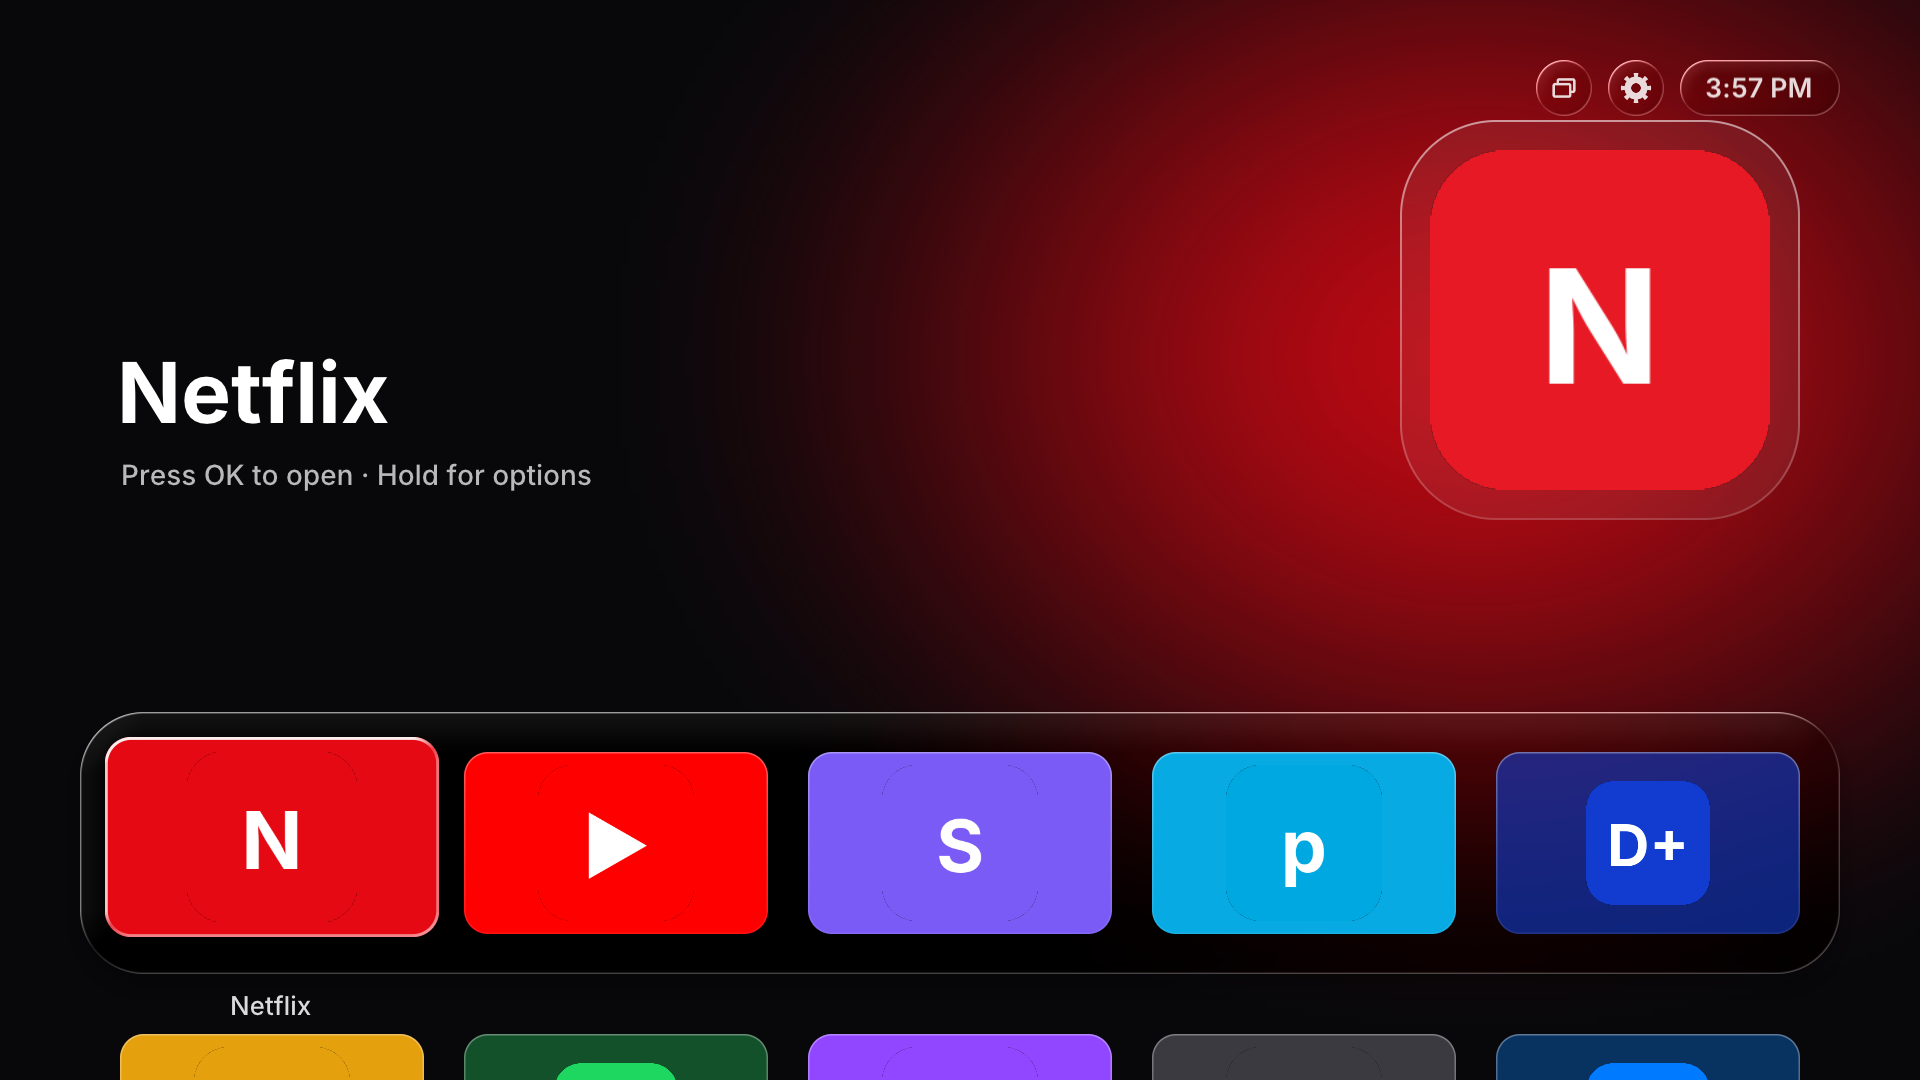
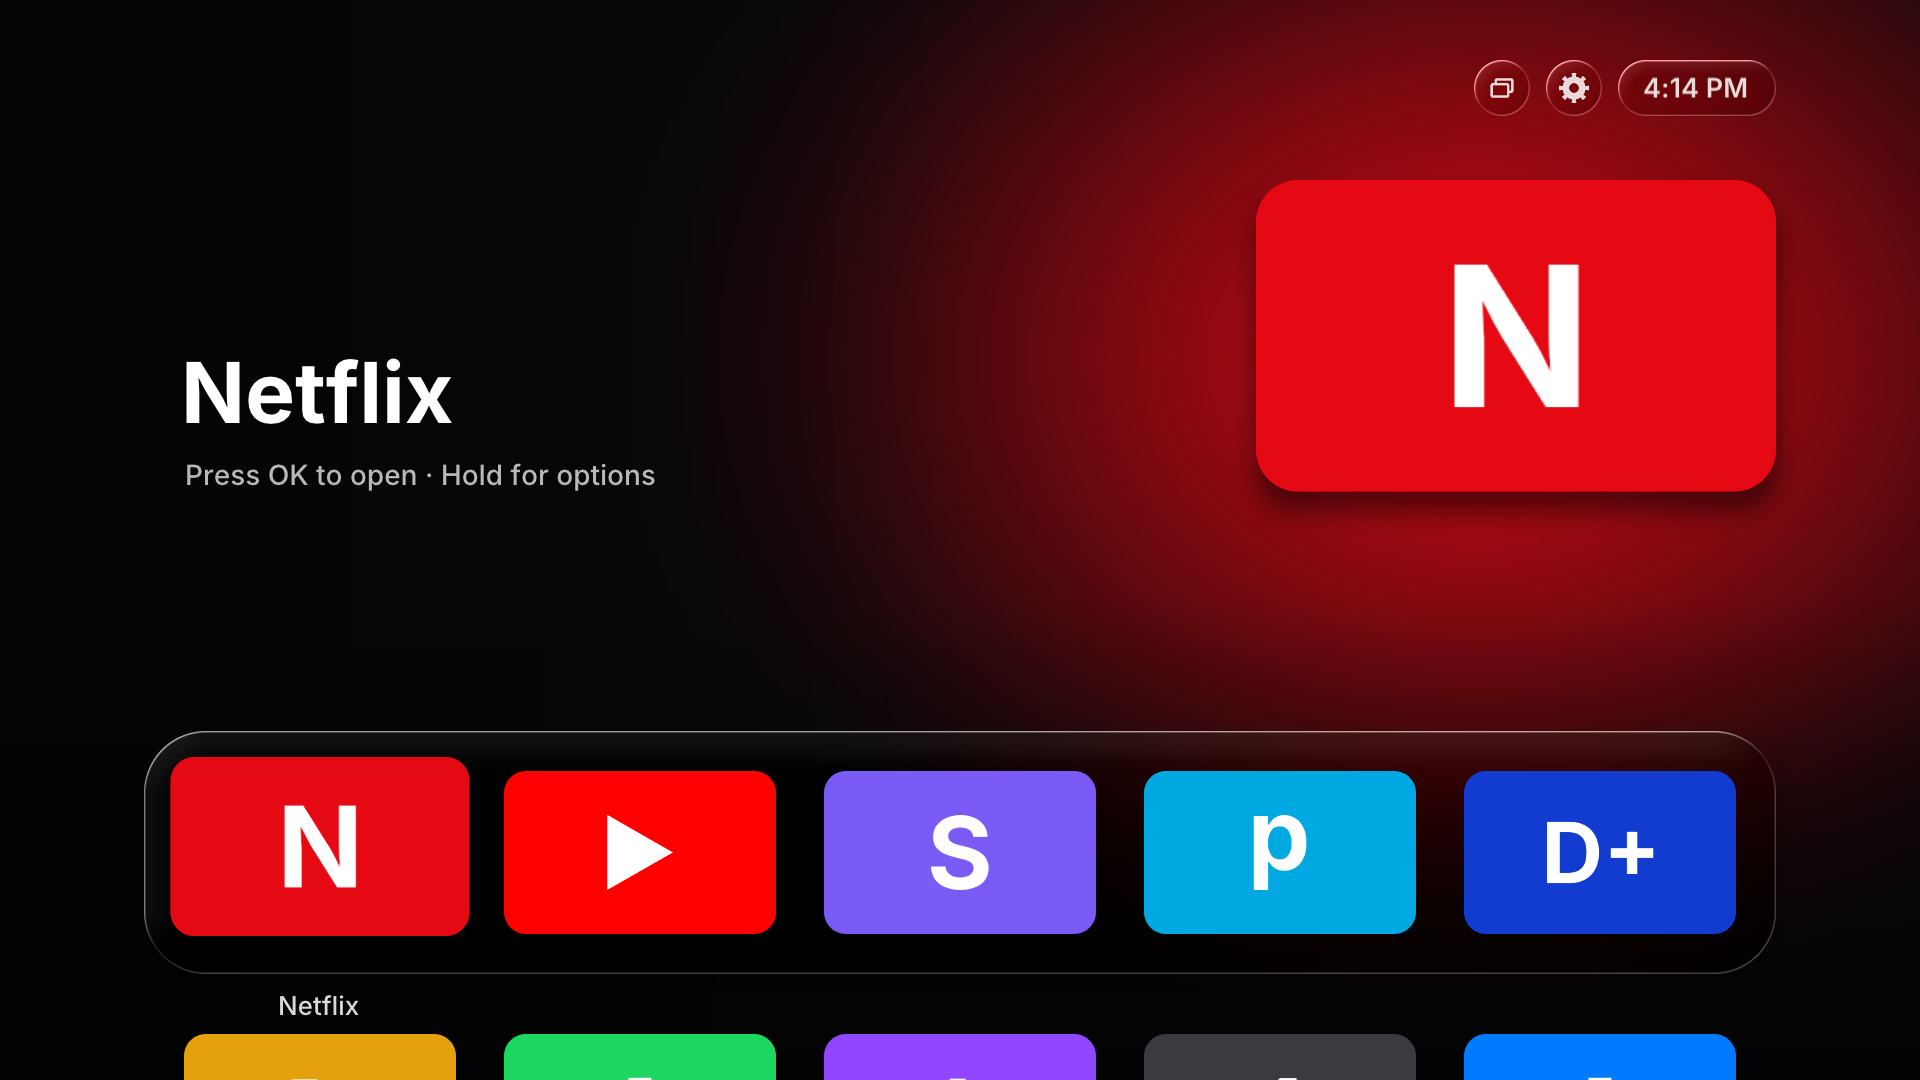
Smaller centred tiles, blurred Top Shelf behind the grid, no card rims
- Tiles 272x163 (from 304x182), 48 px apart; the grid and dock are
  centred and the Top Shelf text, rail and top bar align to the dock.
- Below the dock the Top Shelf picture stays as the background,
  blurred and dimmed, so the apps stand out (tvOS behaviour). The shelf
  is drawn as picture (also the glass backdrop) and content.
- No specular rim or border on app tiles or rail cards; focus is lift,
  scale and shadow. Move mode keeps a plain outline.
- A Top Shelf without artwork shows the app's uniform tile, large.

diff --git a/native/src/main.c b/native/src/main.c
@@ -22,30 +22,35 @@
 
 /* ------------------------------------------------------------------ layout */
 
-/* Spacing system (Apple's tvOS layout guidance): an 80/60 px safe area, five
- * columns of 5:3 tiles 40 px apart, containers pad their content 40 px and keep
- * their corners concentric with it (outer radius = inner radius + padding). */
+/* Spacing system: five columns of 5:3 tiles 48 px apart, centred inside the
+ * 80/60 px TV safe area; containers pad their content 40 px and keep their
+ * corners concentric with it (outer radius = inner radius + padding). The Top
+ * Shelf text, the rail and the top bar line up with the dock's edges. */
 #define W 1920
 #define H 1080
 #define SAFE_X 80
 #define SAFE_Y 60
 #define COLS 5
-#define TILE_W 304
-#define TILE_H 182
-#define TILE_R 24
-#define GAP_X 40
+#define TILE_W 272
+#define TILE_H 163
+#define TILE_R 22
+#define GAP_X 48
 #define PAD 40
-#define LEFT (SAFE_X + PAD)            /* first column */
-#define DOCK_Y 712                     /* glass platform behind the top row */
+#define GRID_W (COLS * TILE_W + (COLS - 1) * GAP_X)
+#define DOCK_W (GRID_W + 2 * PAD)
+#define DOCK_X ((W - DOCK_W) / 2)      /* glass platform behind the top row, centred */
+#define LEFT (DOCK_X + PAD)            /* first column */
+#define RIGHT (W - DOCK_X)             /* the top bar ends where the dock does */
 #define DOCK_H (TILE_H + 2 * PAD)
+#define DOCK_Y (974 - DOCK_H)
 #define GRID_TOP (DOCK_Y + PAD)
 #define ROW_H (TILE_H + 100)           /* rows at least 100 px apart; labels sit in the gap */
 #define FOCUS_SCALE 1.10f
 #define LONG_PRESS_MS 650
 #define RAIL_CARD_W TILE_W             /* Continue Watching cards sit on the same columns */
-#define RAIL_CARD_H 171                /* 16:9 */
+#define RAIL_CARD_H 153                /* 16:9 */
 #define RAIL_GAP GAP_X
-#define RAIL_Y 486
+#define RAIL_Y (DOCK_Y - PAD - RAIL_CARD_H - 16)
 #define RAIL_VISIBLE 5
 #define BAR 56                         /* clock capsule and round top-bar buttons */
 #define BAR_GAP 16
@@ -832,7 +837,7 @@ static void sheet_close(void)
 static void focus_rect(float *x, float *y, float *w, float *h)
 {
     if (S.zone == ZONE_TOP) {
-        float right = W - SAFE_X - (S.clock_w + 48);
+        float right = RIGHT - (S.clock_w + 48);
         *x = right - (TOP_COUNT - S.top_index) * (BAR + BAR_GAP);
         *y = SAFE_Y;
         *w = *h = BAR;
@@ -1407,25 +1412,34 @@ static void ensure_app_texts(App *a)
     if (!a->big) a->big = text_render(S.f_bold, 84, a->title, 1000, &a->bw, &a->bh);
 }
 
-static void draw_app_shelf(App *a, Uint8 alpha)
+/* The Top Shelf is a picture (artwork, or the app's tile large on a glow, under
+ * scrims) and content (titles, the Continue Watching rail). The picture stays
+ * behind the grid when you scroll down, blurred; the content scrolls away. */
+static void draw_app_art(App *a, Uint8 alpha)
 {
     if (!a || !alpha) return;
     Uint8 r, g, b;
     app_color(a, &r, &g, &b);
     if (a->art_tex) {
         r_cover(a->art_tex, 0, 0, W, H, alpha, 0);
-        r_image(S.scrim_v, 0, H * 0.55f, W, H * 0.45f, 255, 255, 255, alpha, 0);
-        r_image(S.scrim_h, 0, 0, W * 0.5f, H, 255, 255, 255, alpha, 0);
     } else {
-        /* a tiny glow texture, stretched by the GPU */
+        /* a tiny glow texture, stretched by the GPU, and the app's tile, large */
         r_image(S.glow, W * 0.77f - 900, H * 0.33f - 700, 1800, 1400, r, g, b, (Uint8)(alpha * 0.8f), 0);
-        if (a->icon_tex) {
-            float ls = 400, lx = W - SAFE_X - PAD - ls, ly = SAFE_Y + 60;
-            r_image(a->icon_tex, lx + 30, ly + 30, ls - 60, ls - 60, 255, 255, 255, alpha, 0);
-            r_shape(lx, ly, ls, ls, 96, 255, 255, 255, (Uint8)(alpha * 0.07f), 0, 1, 1);
-            r_shape(lx, ly, ls, ls, 96, 255, 255, 255, (Uint8)(alpha * 0.55f), 2.0f, 1.0f, 0.3f);
+        if (a->logo_tex) {
+            float tw = 520, th = tw * TILE_H / TILE_W, tx = RIGHT - tw, ty = SAFE_Y + 120, k = tw / TILE_W;
+            r_shadow(tx, ty, tw, th, TILE_R * k, 40, 20, 0.45f * alpha / 255);
+            r_shape(tx, ty, tw, th, TILE_R * k, r, g, b, alpha, 0, 1, 1);
+            float lw = a->logo_w * k, lh = a->logo_h * k;
+            r_image(a->logo_tex, tx + (tw - lw) / 2, ty + (th - lh) / 2, lw, lh, 255, 255, 255, alpha, a->logo_r * k);
         }
     }
+    r_image(S.scrim_v, 0, H * 0.55f, W, H * 0.45f, 255, 255, 255, alpha, 0);
+    r_image(S.scrim_h, 0, 0, W * 0.5f, H, 255, 255, 255, alpha, 0);
+}
+
+static void draw_app_text(App *a, Uint8 alpha)
+{
+    if (!a || !alpha) return;
     ensure_app_texts(a);
     draw_text(a->big, a->bw, a->bh, LEFT - 4, 340, alpha);
     Tex *sub = is_stremio(a) && !S.rail_connected ? S.sub_connect_tex : S.sub_tex;
@@ -1433,10 +1447,10 @@ static void draw_app_shelf(App *a, Uint8 alpha)
     draw_text(sub, sw, sh, LEFT, 340 + a->bh + 10, (Uint8)(alpha * 0.72f));
 }
 
-static void draw_rail_shelf(Uint8 alpha, int backdrop)
+static void draw_rail_art(Uint8 alpha)
 {
     RailItem *cur = S.rail_index < S.nrail ? &S.rail[S.rail_index] : NULL;
-    if (!cur) return;
+    if (!cur || !alpha) return;
     RailItem *prev = S.rail_art_prev >= 0 && S.rail_art_prev < S.nrail ? &S.rail[S.rail_art_prev] : NULL;
     Tex *pt = prev ? (prev->bg_tex ? prev->bg_tex : prev->thumb_tex) : NULL;
     Tex *ct = cur->bg_tex ? cur->bg_tex : cur->thumb_tex;
@@ -1444,7 +1458,12 @@ static void draw_rail_shelf(Uint8 alpha, int backdrop)
     r_cover(ct, 0, 0, W, H, (Uint8)(alpha * S.rail_art_a), 0);
     r_image(S.scrim_v, 0, H * 0.55f, W, H * 0.45f, 255, 255, 255, alpha, 0);
     r_image(S.scrim_h, 0, 0, W * 0.5f, H, 255, 255, 255, alpha, 0);
+}
 
+static void draw_rail_content(Uint8 alpha, int backdrop)
+{
+    RailItem *cur = S.rail_index < S.nrail ? &S.rail[S.rail_index] : NULL;
+    if (!cur || !alpha) return;
     /* heading capsule, title, meta */
     float hy = SAFE_Y + 58, hh = 46;
     panel(backdrop, LEFT, hy, S.hw + 44, hh, hh / 2, 1, 0, alpha / 255.0f);
@@ -1456,7 +1475,7 @@ static void draw_rail_shelf(Uint8 alpha, int backdrop)
     for (int i = 0; i < S.nrail; i++) {
         RailItem *it = &S.rail[i];
         float sc = 1 + 0.10f * it->s;
-        float cw = RAIL_CARD_W * sc, ch = RAIL_CARD_H * sc, rad = 20 * sc;
+        float cw = RAIL_CARD_W * sc, ch = RAIL_CARD_H * sc, rad = 18 * sc;
         float x = LEFT + i * (RAIL_CARD_W + RAIL_GAP) - S.rail_shift - (cw - RAIL_CARD_W) / 2;
         float y = RAIL_Y - (ch - RAIL_CARD_H) / 2 - 6 * it->s;
         if (x > W || x + cw < 0) continue;
@@ -1471,8 +1490,6 @@ static void draw_rail_shelf(Uint8 alpha, int backdrop)
         if (it->thumb_tex) r_cover(it->thumb_tex, x, y, cw, ch, ca, rad);
         else r_shape(x, y, cw, ch, rad, 255, 255, 255, (Uint8)(ca * 0.08f), 0, 1, 1);
         r_image(S.scrim_v, x, y + ch * 0.45f, cw, ch * 0.55f, 255, 255, 255, ca, rad);
-        r_shape(x, y, cw, ch, rad, 255, 255, 255, (Uint8)(ca * 0.3f * (1 - it->s)), 1.5f, 1.0f, 0.25f);
-        if (it->s > 0.01f) r_rim(x, y, cw, ch, rad, 1.5f + 1.5f * it->s, (Uint8)(ca * 0.92f * it->s), S.light_x, S.light_y);
         draw_text(it->name_tex, it->nw, it->nh, x + 16 * sc, y + ch - (22 + it->nh) * sc, ca);
         float bx = x + 16 * sc, bw = cw - 32 * sc, by = y + ch - 17 * sc, bh = 5 * sc; /* progress */
         r_shape(bx, by, bw, bh, bh / 2, 255, 255, 255, (Uint8)(ca * 0.28f), 0, 1, 1);
@@ -1480,15 +1497,34 @@ static void draw_rail_shelf(Uint8 alpha, int backdrop)
     }
 }
 
-static void draw_shelf(int backdrop)
+/* the shelf shows the rail when Stremio (with something to resume) was the last
+ * top-row app focused, even after focus moves on below the dock */
+static int shelf_rail(void)
 {
-    Uint8 alpha = (Uint8)(255 * (1 - S.scrolled));
+    if (rail_active()) return 1;
+    App *a = S.focus >= COLS ? item_app(S.shelf_cur) : NULL;
+    return a && is_stremio(a) && S.nrail > 0;
+}
+
+static void draw_shelf_art(Uint8 alpha)
+{
+    if (!alpha) return;
+    if (shelf_rail()) {
+        draw_rail_art(alpha);
+    } else {
+        draw_app_art(item_app(S.shelf_prev), (Uint8)(alpha * (1 - S.shelf_a)));
+        draw_app_art(item_app(S.shelf_cur), (Uint8)(alpha * S.shelf_a));
+    }
+}
+
+static void draw_shelf_content(Uint8 alpha, int backdrop)
+{
     if (!alpha) return;
     if (rail_active()) {
-        draw_rail_shelf(alpha, backdrop);
+        draw_rail_content(alpha, backdrop);
     } else {
-        draw_app_shelf(item_app(S.shelf_prev), (Uint8)(alpha * (1 - S.shelf_a)));
-        draw_app_shelf(item_app(S.shelf_cur), (Uint8)(alpha * S.shelf_a));
+        draw_app_text(item_app(S.shelf_prev), (Uint8)(alpha * (1 - S.shelf_a)));
+        draw_app_text(item_app(S.shelf_cur), (Uint8)(alpha * S.shelf_a));
     }
 }
 
@@ -1516,7 +1552,7 @@ static void draw_top_bar(float right, Uint8 alpha, int backdrop)
 static void draw_clock(Uint8 alpha, int backdrop)
 {
     if (!alpha) return;
-    float pw = S.clock_w + 48, x = W - SAFE_X - pw;
+    float pw = S.clock_w + 48, x = RIGHT - pw;
     panel(backdrop, x, SAFE_Y, pw, BAR, BAR / 2, 1, 0, alpha / 255.0f);
     draw_text(S.clock_tex, S.clock_w, S.clock_h, x + 24, SAFE_Y + (BAR - S.clock_h) / 2.0f, (Uint8)(alpha * TEXT_STATIC / 255));
     draw_top_bar(x, alpha, backdrop);
@@ -1543,7 +1579,7 @@ static void draw_tile(int i, int backdrop)
     Uint8 r, g, b;
     app_color(a, &r, &g, &b);
     if (k > 0.01f && !backdrop) r_shadow(x, y, w, h, rad, 28, 16, 0.5f * k);
-    r_shape(x, y, w, h, rad, r, g, b, a ? 255 : 18, 0, 1, 1); /* uniform: opaque, the icon's own colour */
+    r_shape(x, y, w, h, rad, r, g, b, a ? 255 : 34, 0, 1, 1); /* uniform: opaque, the icon's own colour */
     if (a && a->logo_tex) {
         float lw = a->logo_w * sc, lh = a->logo_h * sc;
         r_image(a->logo_tex, x + (w - lw) / 2, y + (h - lh) / 2, lw, lh, 255, 255, 255, 255, a->logo_r * sc);
@@ -1556,9 +1592,7 @@ static void draw_tile(int i, int backdrop)
         if (!ht) ht = text_render(S.f_semi, 28, "\xE2\x80\xA2 \xE2\x80\xA2 \xE2\x80\xA2   Hidden", 0, &hw, &hh);
         draw_text(ht, hw, hh, x + (w - hw) / 2, y + (h - hh) / 2, 205);
     }
-    /* rim: a focused tile turns to glass and catches a light that moves as it sways */
-    r_shape(x, y, w, h, rad, 255, 255, 255, (Uint8)(90 * (1 - k) + (S.moving && focused ? 35 : 0)), 1.5f, 1.0f, 0.2f);
-    if (k > 0.01f) r_rim(x, y, w, h, rad, 1.5f + 1.5f * k, (Uint8)(235 * k), S.light_x, S.light_y);
+    if (S.moving && focused) r_shape(x, y, w, h, rad, 255, 255, 255, 200, 2.0f, 1, 1); /* the tile you're moving */
     if (a && k > 0.01f && !backdrop) {
         ensure_app_texts(a);
         float ly = i < COLS ? DOCK_Y - 160 * S.scrolled + DOCK_H + 14 : by + TILE_H + 22; /* top row: under the dock */
@@ -1569,10 +1603,16 @@ static void draw_tile(int i, int backdrop)
 /* Everything below the overlays. backdrop: the copy the glass refracts. */
 static void draw_scene(int backdrop)
 {
-    draw_shelf(backdrop);
+    Uint8 shelf_a = (Uint8)(255 * (1 - S.scrolled));
+    draw_shelf_art(shelf_a);
+    if (S.scrolled > 0.004f) { /* below the dock the picture stays, blurred and dimmed, so the apps stand out */
+        r_backdrop_image(1, (Uint8)(255 * S.scrolled));
+        r_fill(0, 0, 0, (Uint8)(110 * S.scrolled));
+    }
+    draw_shelf_content(shelf_a, backdrop);
     float dock_y = DOCK_Y - 160 * S.scrolled, dock_a = 1 - S.scrolled;
-    if (!backdrop && dock_a > 0.004f) r_shadow(SAFE_X, dock_y, W - 2 * SAFE_X, DOCK_H, TILE_R + PAD, 40, 14, 0.3f * dock_a);
-    panel(backdrop, SAFE_X, dock_y, W - 2 * SAFE_X, DOCK_H, TILE_R + PAD, 0, 0, dock_a); /* icons on it are opaque: stays clear */
+    if (!backdrop && dock_a > 0.004f) r_shadow(DOCK_X, dock_y, DOCK_W, DOCK_H, TILE_R + PAD, 40, 14, 0.3f * dock_a);
+    panel(backdrop, DOCK_X, dock_y, DOCK_W, DOCK_H, TILE_R + PAD, 0, 0, dock_a); /* icons on it are opaque: stays clear */
     int dimmed = !backdrop && S.dim > 0.004f, top = S.zone == ZONE_TOP;
     if (!(dimmed && top)) draw_clock((Uint8)(255 * (1 - S.scrolled)), backdrop);
     for (int i = 0; i < S.nitems; i++)
@@ -1643,9 +1683,10 @@ extern int homeplus_screenshot(const char *path);
 static int render(float dt, const char *shot)
 {
     int anim = update(dt);
-    /* what the dock and top bar refract: the Top Shelf only (the icons sit on the glass) */
+    /* the Top Shelf picture alone: what the dock and top bar refract (the icons
+     * sit on the glass), and the blurred background below the dock */
     r_backdrop_begin();
-    draw_shelf(1);
+    draw_shelf_art(255);
     r_backdrop_end();
 
     r_frame_begin(8, 8, 11);

diff --git a/native/src/render.c b/native/src/render.c
@@ -559,6 +559,19 @@ void r_backdrop_end(void)
     bind_target(NULL);
 }
 
+void r_backdrop_image(int blurred, Uint8 alpha)
+{
+    if (!alpha) return;
+    const Target *t = blurred ? &R.u1 : &R.backdrop;
+    use(&R.tex);
+    bind_tex(0, t->tex);
+    gl.Uniform4f(R.tex.uv, 0, 1, 1, 0); /* FBO textures are bottom-up */
+    gl.Uniform4f(R.tex.color, 1, 1, 1, alpha / 255.0f);
+    gl.Uniform1f(R.tex.radius, 0);
+    quad(&R.tex, 0, 0, (float)R.lw, (float)R.lh);
+    gl.Uniform4f(R.tex.uv, 0, 0, 1, 1);
+}
+
 void r_glass(const Glass *g)
 {
     if (g->alpha <= 0 || g->w <= 0 || g->h <= 0) return;

diff --git a/native/src/render.h b/native/src/render.h
@@ -52,6 +52,10 @@ void r_fill(Uint8 r, Uint8 g, Uint8 b, Uint8 a);
 void r_backdrop_begin(void);
 void r_backdrop_end(void);
 
+/* The backdrop itself over the whole screen (blurred: the soft copy), e.g. a
+ * blurred background behind content that should stand out. */
+void r_backdrop_image(int blurred, Uint8 alpha);
+
 typedef struct {
     float x, y, w, h, radius;
     float legible;           /* 0..1: content on it must stay readable, so blur and dim the
